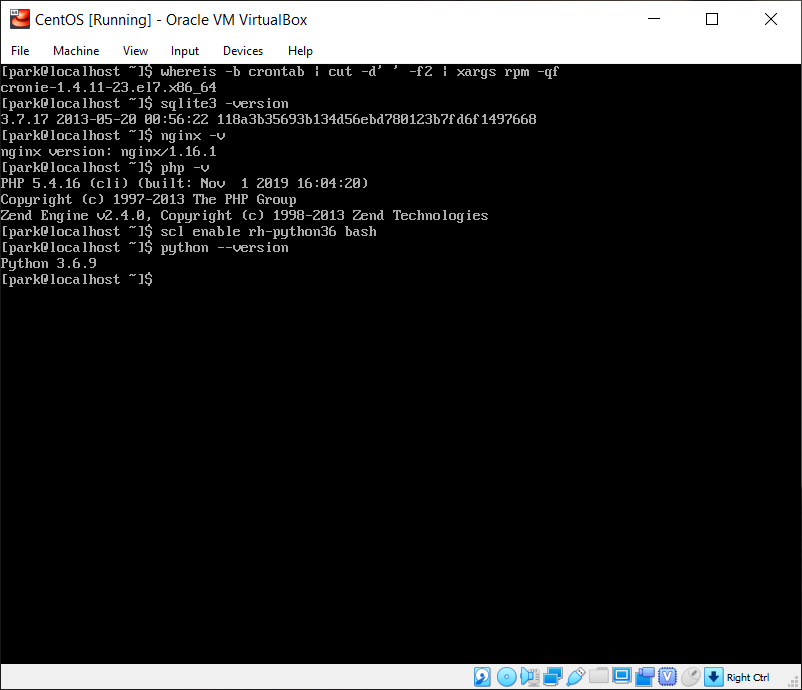
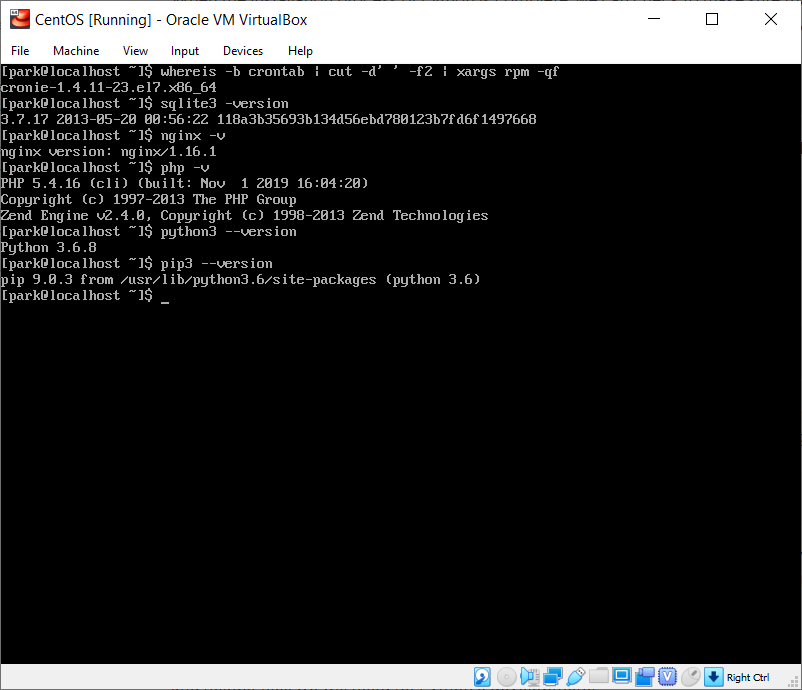
Midpoint README.md commit. Finished Setup, starting Data Model.

diff --git a/README.MD b/README.MD
@@ -13,8 +13,11 @@
     <li>Python 3 Programming Language Interpreter (using version 3.6.8)</li>
     <li>PHP Hypertext Preprocessor (using version 5.4.16) with Zend Engine Interpreter (using version 2.4.0)</li>
 </ul>
+<hr>
 <h2>Setup</h2>
-<p>As we just said, we'll be using CentOS Linux 7 in VirtualBox for this demo, but you can use another virtual machine or an actual server if you like. Just make sure that your system has at least 2GB of memory; 16GB of hard disk space; 128MB of video memory; and a connection to the Internet. To start things off right, let's create a super user to avoid using the root user:</p>
+<p>As we just said, we'll be using CentOS Linux 7 in VirtualBox for this demo, but you can use another virtual machine or an actual server if you like. Just make sure that your system has at least 2GB of memory; 16GB of hard disk space; 128MB of video memory; and a connection to the Internet.</p>
+<p>We'll be using the default minimal install option. Since our focus is on getting Park up and running, we won't get into creating a CentOS VM in VirtualBox. Several online walkthroughs exist: <a href="https://tutorials.kurtobando.com/install-a-centos-7-minimal-server-in-virtual-machine-with-screenshots/" target="_blank">Kurt Bando's tutorial</a> is an excellent walkthrough.</p>
+<p>Once the VM is setup and to start things off right, let's create a super user to avoid using the root user:</p>
 <pre>
 [root@localhost ~]# adduser park
 [root@localhost ~]# passwd park
@@ -27,8 +30,12 @@ Adding user park to group wheel
 [root@localhost ~]# su - park
 [park@localhost ~]# 
 </pre>
-<p>Next, update the system using the following command:</p>
-<pre>[park@localhost ~]# sudo yum update</pre>
+<p>Next, update the system and add CentOS' development tools using the following commands:</p>
+<pre>
+[park@localhost ~]# sudo yum -y update
+[park@localhost ~]# sudo yum -y install yum-utils
+[park@localhost ~]# sudo yum -y groupinstall development
+</pre>
 <p>This may take a while, especially on a new system.</p>
 <p>Once the system update is completed, make sure that we have everything we need:</p>
 <ol>
@@ -38,7 +45,7 @@ Adding user park to group wheel
 cronie-1.4.11-19.e17.x86_64
 </pre>
         <p>If cron is not installed, install it using the following command:</p>
-<pre>[park@localhost ~]# yum install cronie</pre>
+<pre>[park@localhost ~]# yum -y install cronie</pre>
     </li>
     <li><b>SQLite RDBMS</b> - SQLite should also be installed, but check anyway:
 <pre>
@@ -47,16 +54,16 @@ cronie-1.4.11-19.e17.x86_64
 </pre>
         <p>If SQLite is not installed, install it using the following command:</p>
 <pre>
-[park@localhost ~]# sudo yum install sqlite
+[park@localhost ~]# sudo yum -y install sqlite
 </pre>
     </li>
     <li><b>Nginx HTTP Web Server</b> - To use Nginx, install the <a href="https://fedoraproject.org/wiki/EPEL" target="_blank">Extra Packages for Enterprise Linux (EPEL)</a> first:
 <pre>
-[park@localhost ~]# sudo yum install epel-release
+[park@localhost ~]# sudo yum -y install epel-release
 </pre>
         <p>Once the installation is completed, install Nginx:</p>
 <pre>
-[park@localhost ~]# sudo yum install nginx
+[park@localhost ~]# sudo yum -y install nginx
 </pre>
         <p>Once Nginx is installed, start the server. In addition, run the second command so that Nginx automatically starts when the system boots up:</p>
 <pre>
@@ -68,8 +75,8 @@ Created symlink from /etc/systemd/system/multi-user.target.wants/nginx.service t
         <ul>
             <li>Method #1: Open a browser in the VM - This is the easiest way, but we won't be able to access the site remotely. Install and start a desktop GUI, such as GNOME, using the following commands:
 <pre>
-sudo yum groupinstall "GNOME Desktop"
-startx
+sudo yum -y groupinstall "GNOME Desktop"
+sudo startx
 </pre>
             <p>Once the desktop appears, open a browser and navigate to localhost (http://127.0.0.1) and the Welcome page should appear:</p>
             <img src="images/readme01.png" alt="" style="width:640px;" />
@@ -94,17 +101,18 @@ sudo firewall-cmd --reload
         </ul>
     </li>
     <li><b>PHP Hypertext Preprocessor</b> - We'll be using PHP as the intermediary between the front and back ends. To install PHP, run the following command:
-<pre>[park@localhost ~]# sudo yum install php</pre>
+<pre>[park@localhost ~]# sudo yum -y install php</pre>
     </li>
-    <li><b>Python 3 Programming Language Interpreter</b> - While Python 2 is installed with CentOS by default, we will need Python 3 to run our computer vision and machine learning scripts, specically Python 3.6.x. To install Python, run the following command:
+    <li><b>Python 3 Programming Language Interpreter</b> - While Python 2 is installed with CentOS by default, we will need Python 3 to run our computer vision and machine learning scripts, specically Python 3.6.x. There are a few ways of doing this, but we will use the IUS Community Repo; for an in-depth look at options, check out <a href="https://www.hogarthuk.com/?q=node/15" target="_blank">this link from James Hogarth</a>. To install Python, run the following command:
 <pre>
-[park@localhost ~]# sudo yum install centos-release-scl
-[park@localhost ~]# sudo yum install rh-python36
-[park@localhost ~]# sudo yum groupinstall 'Development Tools'
+[park@localhost ~]# sudo yum -y install https://centos7.iuscommunity.org/ius-release.rpm
+[park@localhost ~]# sudo yum -y install python36u
+[park@localhost ~]# sudo yum -y install python36u-pip
+[park@localhost ~]# sudo yum -y install python36u-devel
 </pre>
     </li>
     <li>Before continuing, do another update of the system using the following command:
-<pre>[park@localhost ~]# sudo yum update</pre>
+<pre>[park@localhost ~]# sudo yum -y update</pre>
     </li>
 </ol>
 <p>Just in case, we'll double check everything is installed and updated using the following commands:</p>
@@ -113,27 +121,34 @@ sudo firewall-cmd --reload
 [park@localhost ~]# sqlite3 -version
 [park@localhost ~]# nginx -v
 [park@localhost ~]# php -v
-[park@localhost ~]# scl enable rh-python36 bash
-[park@localhost ~]# python ––version
+[park@localhost ~]# python3 ––version
+[park@localhost ~]# pip3 ––version
 </pre>
 <img src="images/readme06.png" alt="" style="text-align: center; width: 640px;" />
-<p>Please note that, in order to use Python 3.6.x, we will have to to launch a new shell instance using the Software Collection scl tool each time we start the system. To have the system do this automatically when loading, we'll add a bashrc file to our profile using the following commands:</p>
+<p>One last thing: Using VirtualBox Guest Additions is not necessary, but it will make our life easier (e.g., cut and paste, etc.). Complete the following steps:
+<p>With the VM running...</p>
+<ol>
+<li>Click on "Devices" on the VM menu bar</li>
+<li>Click on the "Insert Guest Additions CD image..." option (If you get an error, you may have already inserted the disk).</li>
+</ol>
+<p>In the terminal, enter the following commands (comments following [#] are not required):</p>
 <pre>
-[park@localhost ~]# cd etc/profile.d
-[park@localhost ~]# sudo nano bashrc
+[park@localhost ~]# sudo yum -y install make gcc kernel-headers kernel-devel perl dkms bzip2 # Installs all requirements
+[park@localhost ~]# export KERN_DIR=/usr/src/kernels/$(uname -r) # set and export the location of the kernel source code
+[park@localhost ~]# mount -r /dev/cdrom /media
+[park@localhost ~]# cd /media/
+[park@localhost ~]# ./VBoxLinuxAdditions.run
+[park@localhost ~]# sudo usermod -aG vboxsf $(whoami)
 </pre>
-<p>Once the file is open in nano, enter the following text:</p>
-<pre>
-# Make Python 3.6.x the default Python interpreter
-scl enable rh-python36 bash
-</pre>
-<p>Hit [CTRL][O] to WriteOut and [CTRL][X] to Exit. Now, return to the park direcctory:</p>
-<pre>
-[park@localhost ~]# cd /home/park
-</pre>
-<p>Whew! That was a lot of setting up! Now let's get to coding...</p> 
+<p>We also recommend enabling shared folders. How to do so is out of our scope (our host machine is Windows, while you may be using something else). For Windows, we recommend <a href="https://www.geeksforgeeks.org/create-shared-folder-host-os-guest-os-virtual-box/" title="Create a shared Folder between Host OS and Guest OS ( Virtual Box)" target="_blank">this walkthrough from Geeks for Geeks.</a> Even though the directions are for Ubuntu, they will work for CentOS as well.</p>
+<p>Whew! That was a lot of setting up! Now let's get to coding...</p>
+<hr>
 <h2>The Data Model</h2>
-<h2>The Scripts<h2>
+<hr>
+<h2>The Scripts</h2>
+<hr>
 <h2>The Back-End</h2>
+<hr>
 <h2>The Front-End</h2>
+<hr>
 <h2>That's All Folks!</h2>
